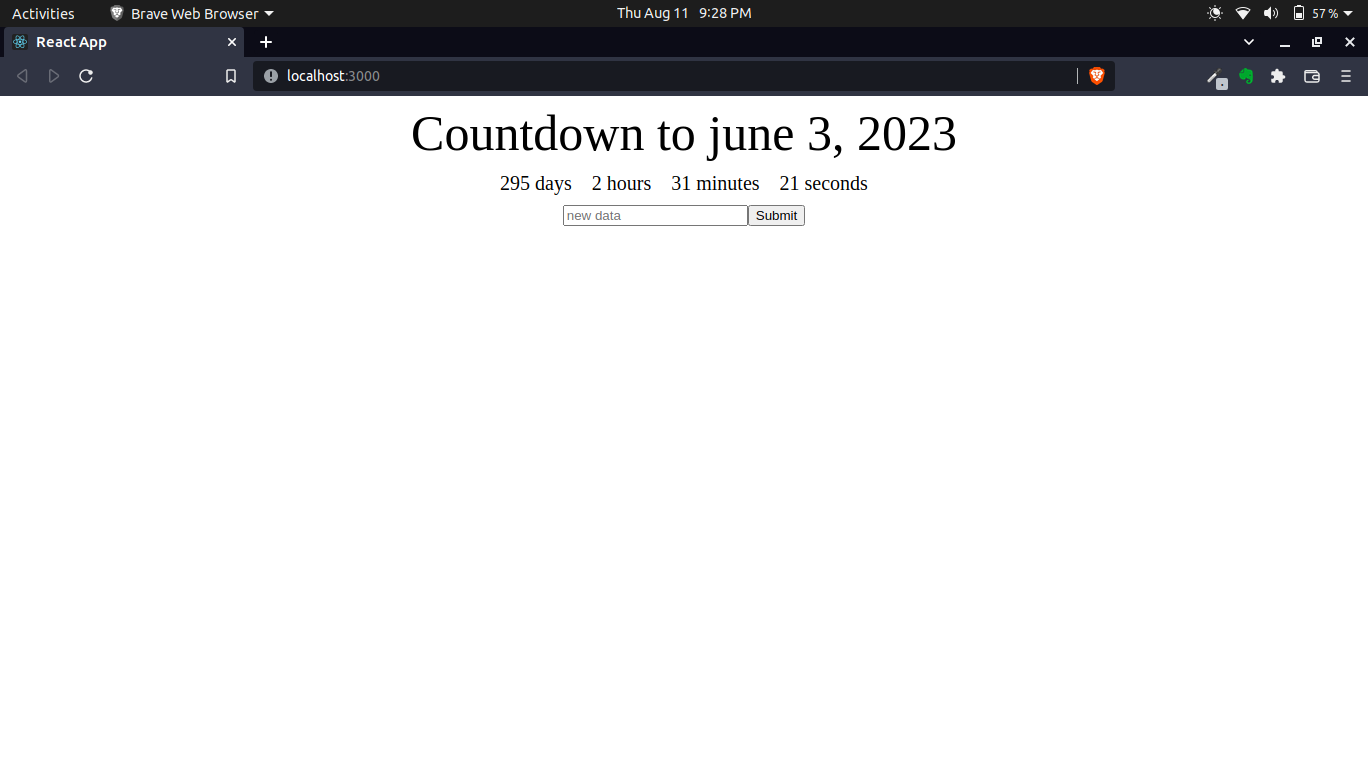
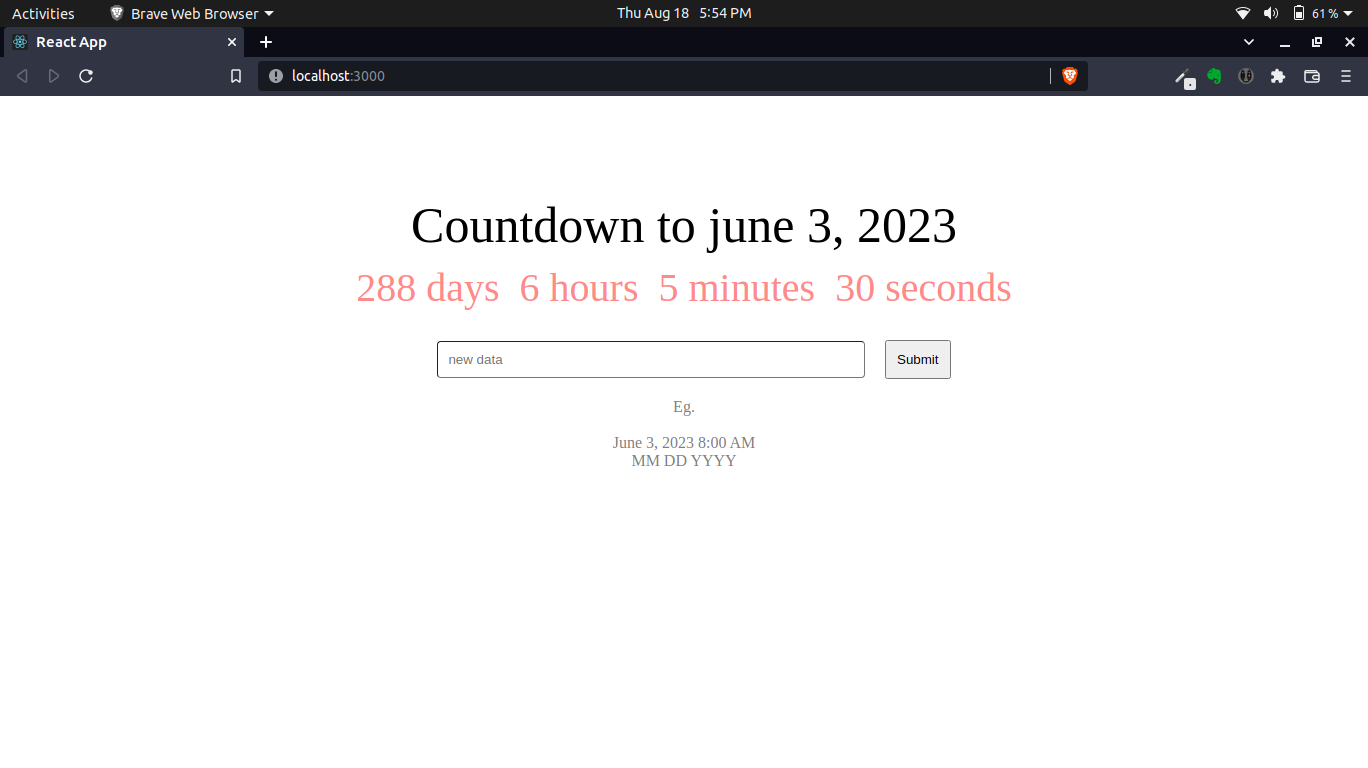
v1

diff --git a/src/1_BasicApp/Clock.jsx b/src/1_BasicApp/Clock.jsx
@@ -1,0 +1,82 @@
+import React, { Component } from "react";
+import './App.css';
+
+class Clock extends Component{
+    constructor(props){
+        super(props);
+        this.state = {
+            sign : 1,
+            days : 0,
+            hours : 0,
+            minutes : 0,
+            seconds : 0,
+        };
+    }
+
+    componentWillMount(){
+        this.getTimeUntil(this.props.deadline);
+    }
+
+    componentDidMount(){
+        setInterval(()=>this.getTimeUntil(this.props.deadline),1000)
+    }
+
+    getTimeUntil(deadline){
+        let sign = 1;
+        const time = Date.parse(deadline) - Date.parse (Date())
+        let seconds = Math.floor((time/1000) % 60);
+        let minutes = Math.floor((time/1000/60) % 60);
+        let hours = Math.floor((time/(1000 * 60 *60)) % 24);
+        let days = Math.floor((time/(1000 *60*60*24)));
+
+        if (time < 0){
+            minutes += 1;
+            hours += 1;
+            days += 1;
+            sign = 1;
+            seconds *= -1
+            minutes *= -1
+            hours *= -1
+            days *= -1
+        }
+        if (time > 0){
+            sign = -1;
+        }
+
+        this.setState({seconds,minutes,hours,days,sign});
+
+    }
+
+    leading0(num){
+        return num > 10 ? num : "0" + num
+    }
+
+    render(){
+        if (this.state.sign === -1){
+            return (
+                <div className="Clock-main-div" style={{
+                    color : "#FF8A8A"
+                }}>
+                    <div className="Clock-days">{this.state.days} days</div>
+                    <div className="Clock-hours">{this.state.hours} hours</div>
+                    <div className="Clock-minutes">{this.state.minutes} minutes</div>
+                    <div className="Clock-seconds">{this.state.seconds} seconds</div>
+                </div>
+            )
+        }else{
+            return (
+                <div className="Clock-main-div" style={{
+                    color : "#3CB043"
+                }}>
+                    <div className="Clock-days">{this.state.days} days</div>
+                    <div className="Clock-hours">{this.state.hours} hours</div>
+                    <div className="Clock-minutes">{this.state.minutes} minutes</div>
+                    <div className="Clock-seconds">{this.state.seconds} seconds</div>
+                </div>
+            )
+        }
+
+    }
+}
+
+export default Clock;

diff --git a/src/1_BasicApp/App.jsx b/src/1_BasicApp/App.jsx
@@ -1,0 +1,58 @@
+import React , {Component} from "react";
+import Clock from "./Clock";
+import './App.css';
+class App extends Component {
+    constructor(props){
+        super(props);
+        this.state = {
+            deadline : "june 3, 2023",
+            newDeadline : "",
+        }
+    }
+
+    changeDeadline(){
+        this.setState({deadline:this.state.newDeadline});
+    }
+    changeNewDeadline(newDeadline){
+        this.setState({newDeadline});
+    }
+
+    render(){
+        return (
+            <center>
+                <div className="top-div">
+                    <div className="title">Countdown to {this.state.deadline}</div> 
+                    <Clock deadline={this.state.deadline}/>
+                    <div>
+                        <center>
+                            <input 
+                                className="date-input-field" 
+                                type="text" 
+                                placeholder="new data" 
+                                onChange={(event)=> this.changeNewDeadline(event.target.value)}
+                                onKeyPress={(key)=>{
+                                    if (key.code === 'Enter'){
+                                        this.changeDeadline()
+                                    }
+                                }}
+                            />
+                            <button 
+                                onClick={()=>this.changeDeadline()}
+                                className='date-submit-button'
+                            >Submit</button>
+                        </center>
+                    </div>
+                    <div className="example-div">
+                        <p>Eg.</p>
+                        <br />
+                        <p>June 3, 2023 8:00 AM</p>
+                        <p>MM DD YYYY</p>
+                        <p></p>
+                    </div>
+                </div>
+            </center>
+        );
+    }
+}
+
+export default App;

diff --git a/src/1_BasicApp/App.css b/src/1_BasicApp/App.css
@@ -1,0 +1,37 @@
+.Clock-days , .Clock-hours , .Clock-minutes , .Clock-seconds {
+    margin: 10px;
+    display: inline;
+}
+
+.top-div{
+    margin-top: 100px;
+}
+
+.title {
+    font-weight: 400;
+    font-size: 50px;
+}
+
+.Clock-main-div{
+    margin: 10px;
+    font-size: 40px;
+}
+
+.date-input-field {
+    width: 30%;
+    padding: 10px;
+    margin: 20px ;
+    border-width: 1px;
+    border-radius: 4px;
+    outline: none;
+}
+
+.date-submit-button{
+    padding: 10px;
+}
+
+.example-div > p{
+    color: grey;
+    padding: 0;
+    margin: 0;
+}

diff --git a/src/index.js b/src/index.js
@@ -1,8 +1,8 @@
 import React  from "react";
 import  ReactDOM  from "react-dom";
 
-import App from './App';
-import Base from './Base';
+import App from './1_BasicApp/App'; // version 1 complete-app
+
 
 
 ReactDOM.render(

diff --git a/src/2_App/App.jsx b/src/2_App/App.jsx
@@ -1,0 +1,7 @@
+import React , { Component } from "react";
+
+class App extends Component{
+    render(){
+        
+    }
+}

diff --git a/README.md b/README.md
@@ -1,1 +1,7 @@
+### Starting the app :
+```bash
+    npm install # to install the dependencies
+    npm start # to run the app
+```
+### Prroject look :
 ![Web Application](./countdown_champ.v1.png "Web Application")
